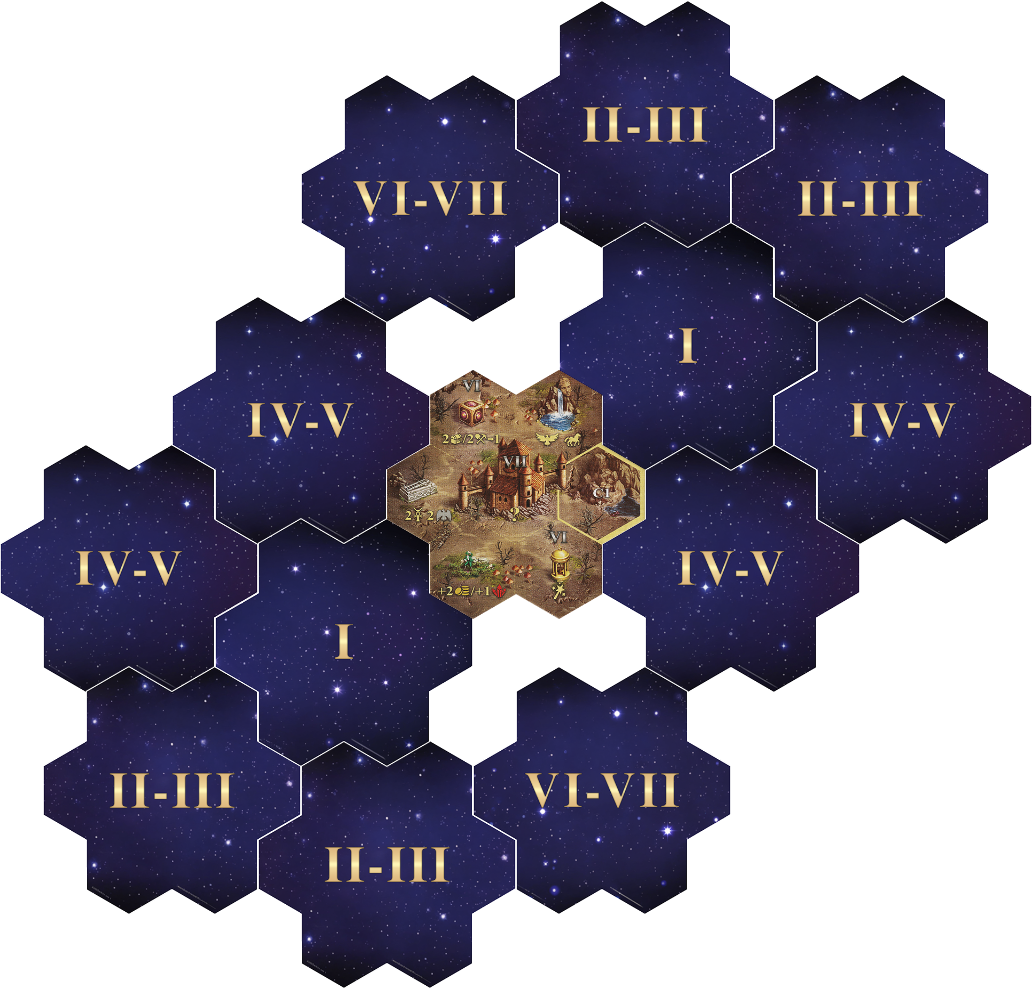
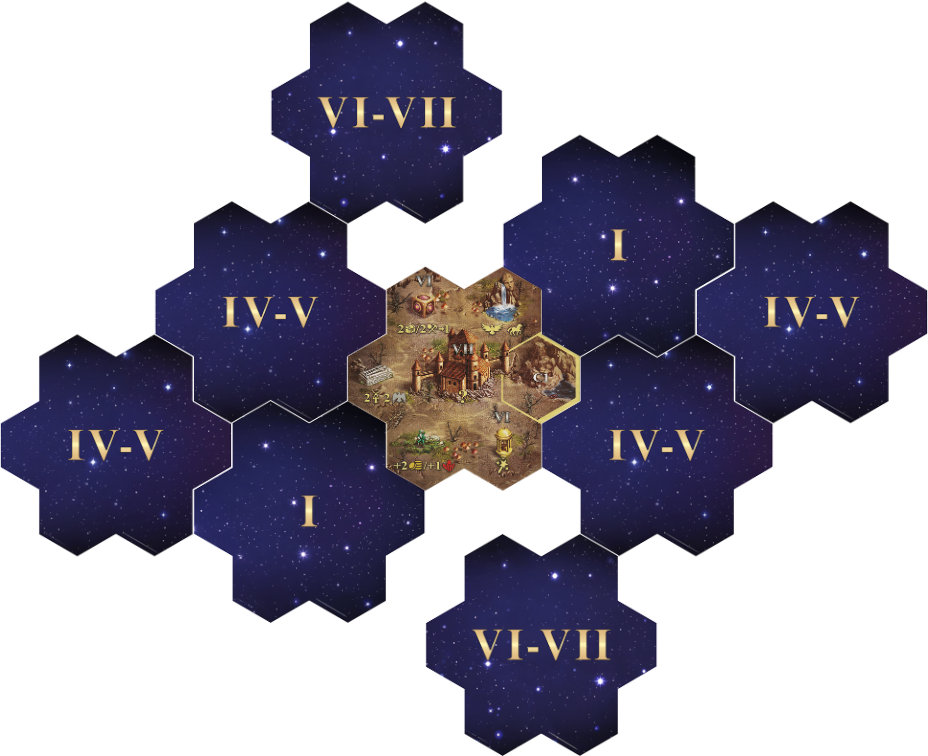
some changes after playtest

diff --git a/draft-scenarios/clash/dragon_valley.tex b/draft-scenarios/clash/dragon_valley.tex
@@ -30,12 +30,14 @@ This Scenario plays out over 13 Rounds.
   \item Each player may build the \svg{building_special_tent} building at a discount of 4 \svg{gold} and 2 \svg{building_materials}.
 \end{itemize}
 
+\textbf{Map Tile Pool:} Each player takes 3 Far (II–III) Map Tiles.
+
 \subsection*{\MakeUppercase{Map Setup}}
 Take the following Map Tiles ($P$ stands for the number of players) and arrange them as shown in the Scenario map layout:
 
 \begin{itemize}
   \item P × Starting (I) Map Tile
-  \item 3P × Far (II–III) Map Tiles
+
   \item 2P × Near (IV–V) Map Tiles
   \item P × Center (VI–VII) Map Tile
   \item 1 × Center (VI–VII) Map Tile with a Dragon Utopia
@@ -70,7 +72,7 @@ If no one controls a Dragon Utopia, all players lose.
 \end{itemize}
 \textbf{\nth{8} Round:}
 \begin{itemize}
-  \item Remove all Black Cubes.
+  \item Remove all Black Cubes from the Map.
 \end{itemize}
 \textbf{End of \nth{10} Round:}
 \begin{itemize}
@@ -79,7 +81,7 @@ If no one controls a Dragon Utopia, all players lose.
 
 \subsection*{\MakeUppercase{Additional Rules}}
 \begin{itemize}
-  \item \textbf{Grail Token}: When a player gains or starts their turn with it, they gain +1 \svg{morale_positive} and Search (2) \svg{spellpower} or \svg{artifact}. Both Main and Secondary Heroes may pick up the Grail Token.
+  \item \textbf{Grail Token}: When a player gains or starts their turn with it, they gain +1 \svg{morale_positive} and Search (4) \svg{spellpower} or \svg{artifact}. Both Main and Secondary Heroes may pick up the Grail Token.
   \item Level VII Neutral Combats cannot be skipped.
   \item A defeated Main Hero may Empower one Defense Statistic Card from his M\&M Deck and gain +1 \svg{movement} for the next Round.
   \item After winning a Combat against another player's Main Hero, draw up to your Hand Limit and discard 1 Card.
@@ -94,7 +96,7 @@ If no one controls a Dragon Utopia, all players lose.
 
 \begin{center}
   \vspace*{\fill}
-  \includegraphics[width=0.72\linewidth]{\maps/dragon-valley-2p.png}
+  \includegraphics[width=0.8\linewidth]{\maps/dragon-valley-2p.png}
   \captionof{figure}{\textbf{2-PLAYER SCENARIO}}
 \end{center}
 
@@ -105,7 +107,7 @@ If no one controls a Dragon Utopia, all players lose.
 
 \begin{center}
   \vspace*{\fill}
-  \includegraphics[width=0.8\linewidth]{\maps/dragon-valley-3p.png}
+  \includegraphics[width=0.85\linewidth]{\maps/dragon-valley-3p.png}
   \captionof{figure}{\textbf{3-PLAYER SCENARIO}}
   \vspace*{\fill}
   \includegraphics[width=1.0\linewidth]{\maps/dragon-valley-4p.png}
